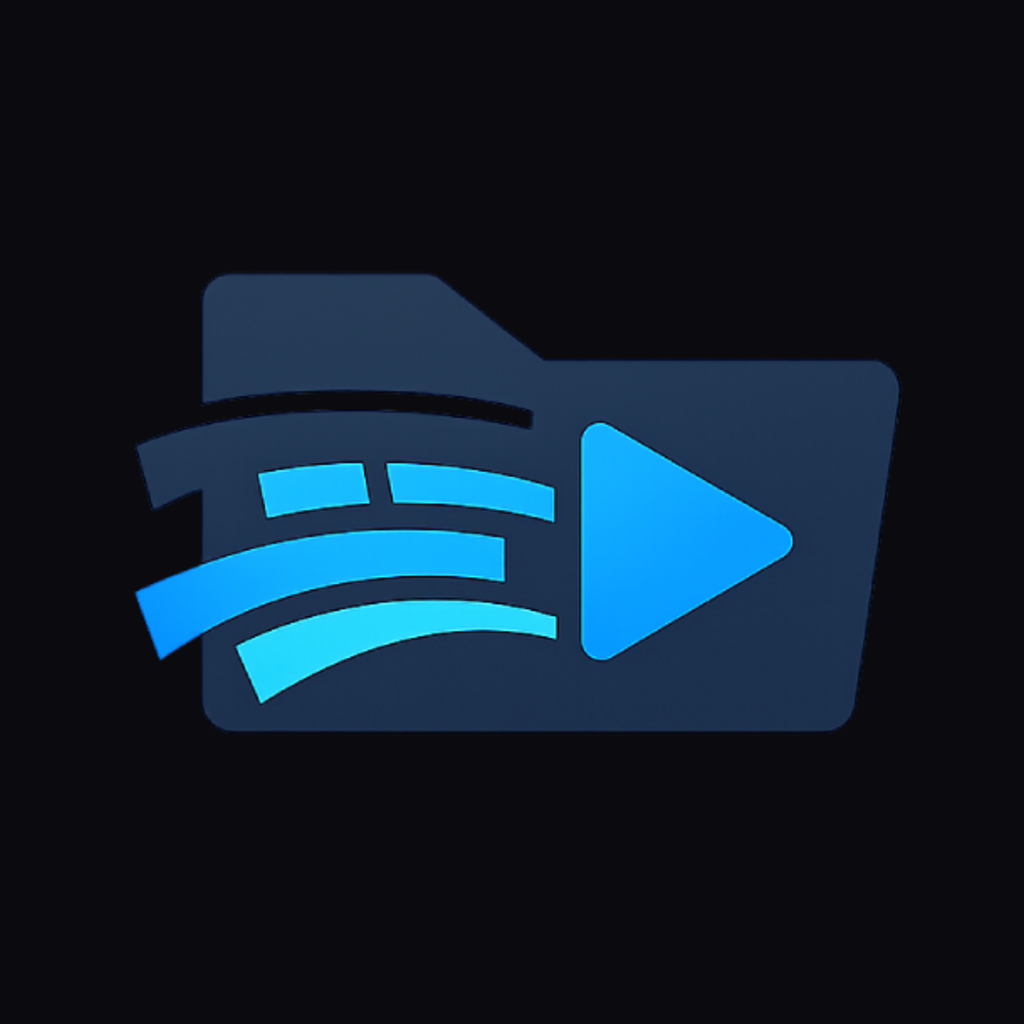
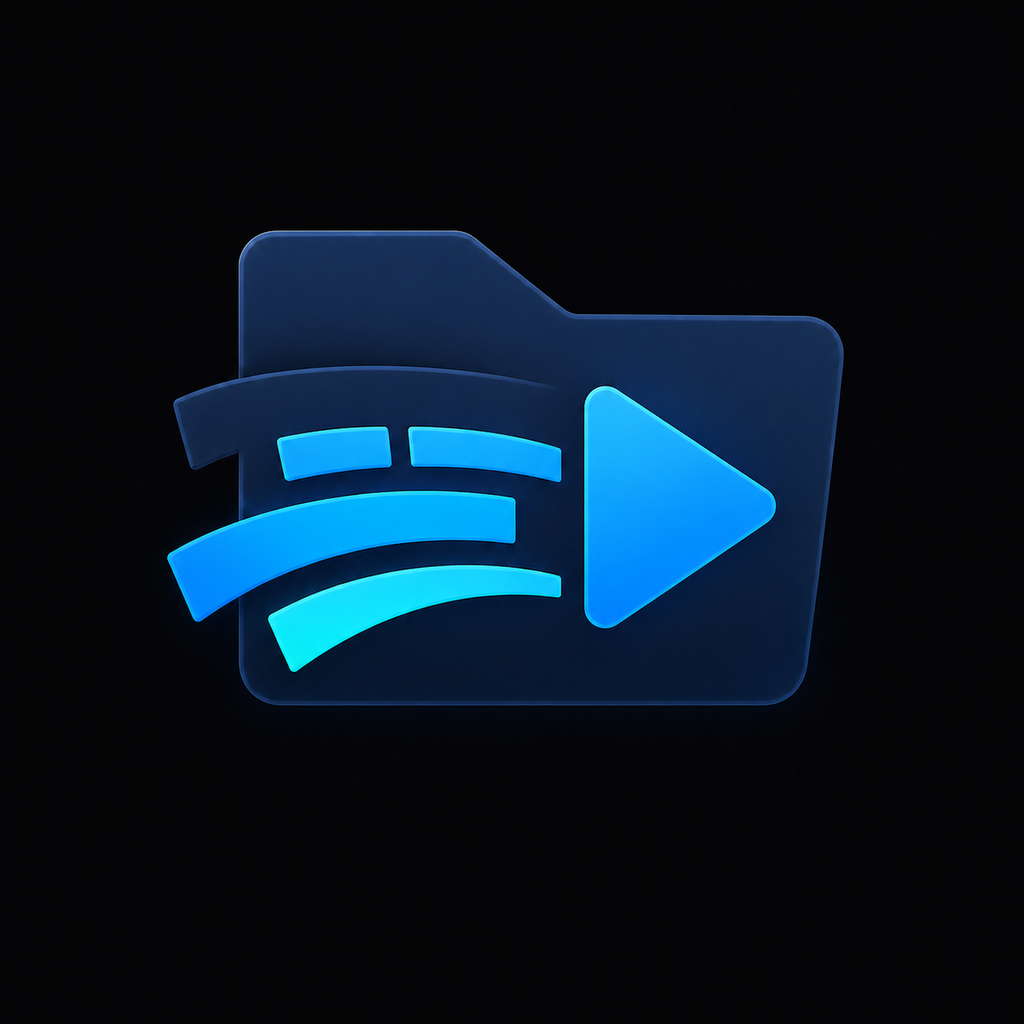
feat: new artwork

Changed region(s): [[0.125, 0.2188, 0.9062, 0.7188]]

diff --git a/mobile/src/App.jsx b/mobile/src/App.jsx
@@ -4,8 +4,8 @@ import { createNativeStackNavigator } from "@react-navigation/native-stack";
 import Ionicons from "@expo/vector-icons/Ionicons";
 import { BottomSheetModalProvider } from "@gorhom/bottom-sheet";
 import { StatusBar } from "expo-status-bar";
-import { createContext, useCallback, useContext, useEffect, useMemo, useState } from "react";
-import { ActivityIndicator, StyleSheet, Text, View } from "react-native";
+import { createContext, useCallback, useContext, useEffect, useMemo, useRef, useState } from "react";
+import { ActivityIndicator, Animated, Easing, Image, StyleSheet, Text, View } from "react-native";
 import { GestureHandlerRootView } from "react-native-gesture-handler";
 import { SafeAreaProvider, useSafeAreaInsets } from "react-native-safe-area-context";
 import { apiJson } from "./api";
@@ -32,13 +32,55 @@ export function useAccess() {
 }
 
 function LoadingScreen() {
-  const { colors } = useTheme();
-  const styles = useMemo(() => makeStyles(colors), [colors]);
+  const pulse = useRef(new Animated.Value(0)).current;
+
+  useEffect(() => {
+    const animation = Animated.loop(
+      Animated.sequence([
+        Animated.timing(pulse, {
+          toValue: 1,
+          duration: 1200,
+          easing: Easing.inOut(Easing.quad),
+          useNativeDriver: true,
+        }),
+        Animated.timing(pulse, {
+          toValue: 0,
+          duration: 1200,
+          easing: Easing.inOut(Easing.quad),
+          useNativeDriver: true,
+        }),
+      ]),
+    );
+
+    animation.start();
+    return () => animation.stop();
+  }, [pulse]);
+
+  const haloStyle = {
+    opacity: pulse.interpolate({ inputRange: [0, 1], outputRange: [0.18, 0.46] }),
+    transform: [{ scale: pulse.interpolate({ inputRange: [0, 1], outputRange: [0.92, 1.06] }) }],
+  };
 
   return (
-    <View style={styles.loading}>
-      <ActivityIndicator color={colors.primary} size="large" />
-      <Text style={styles.loadingText}>Opening private library</Text>
+    <View style={styles.loading} accessibilityLabel="Opening DogMedia private library">
+      <View style={styles.splashMarkWrap}>
+        <Animated.View style={[styles.splashHalo, haloStyle]} />
+        <Image
+          accessibilityIgnoresInvertColors
+          accessible={false}
+          source={require("../assets/splash-mark-v2.png")}
+          resizeMode="contain"
+          style={styles.splashMark}
+        />
+      </View>
+
+      <Text style={styles.splashWordmark}>DOGMEDIA</Text>
+      <Text style={styles.splashTagline}>YOUR PRIVATE MEDIA LIBRARY</Text>
+
+      <View style={styles.loadingStatus}>
+        <ActivityIndicator color="#22b8ff" size="small" />
+        <Text style={styles.loadingText}>Opening your library</Text>
+      </View>
     </View>
   );
 }
@@ -214,23 +256,60 @@ export default function App() {
   );
 }
 
-const makeStyles = (colors) => StyleSheet.create({
+const styles = StyleSheet.create({
   loading: {
     flex: 1,
     alignItems: "center",
     justifyContent: "center",
-    backgroundColor: colors.bg,
+    backgroundColor: "#050607",
+    paddingBottom: 18,
+  },
+  splashMarkWrap: {
+    width: 252,
+    height: 252,
+    alignItems: "center",
+    justifyContent: "center",
+  },
+  splashHalo: {
+    position: "absolute",
+    width: 198,
+    height: 198,
+    borderRadius: 99,
+    backgroundColor: "rgba(22,140,255,0.08)",
+    borderColor: "rgba(61,227,242,0.28)",
+    borderWidth: 1,
+  },
+  splashMark: {
+    width: 252,
+    height: 252,
+  },
+  splashWordmark: {
+    marginTop: -16,
+    color: "#f4f4f5",
+    fontSize: 23,
+    fontWeight: "900",
+    letterSpacing: 5.5,
+  },
+  splashTagline: {
+    marginTop: 8,
+    color: "#667085",
+    fontSize: 9,
+    fontWeight: "800",
+    letterSpacing: 2.1,
+  },
+  loadingStatus: {
+    position: "absolute",
+    bottom: 58,
+    flexDirection: "row",
+    alignItems: "center",
+    gap: 10,
   },
   loadingText: {
-    marginTop: 14,
-    color: colors.muted,
-    fontSize: 12,
-    fontWeight: "900",
-    textTransform: "uppercase",
+    color: "#8b95a7",
+    fontSize: 11,
+    fontWeight: "700",
+    letterSpacing: 0.4,
   },
-});
-
-const styles = StyleSheet.create({
   gestureRoot: {
     flex: 1,
   },
